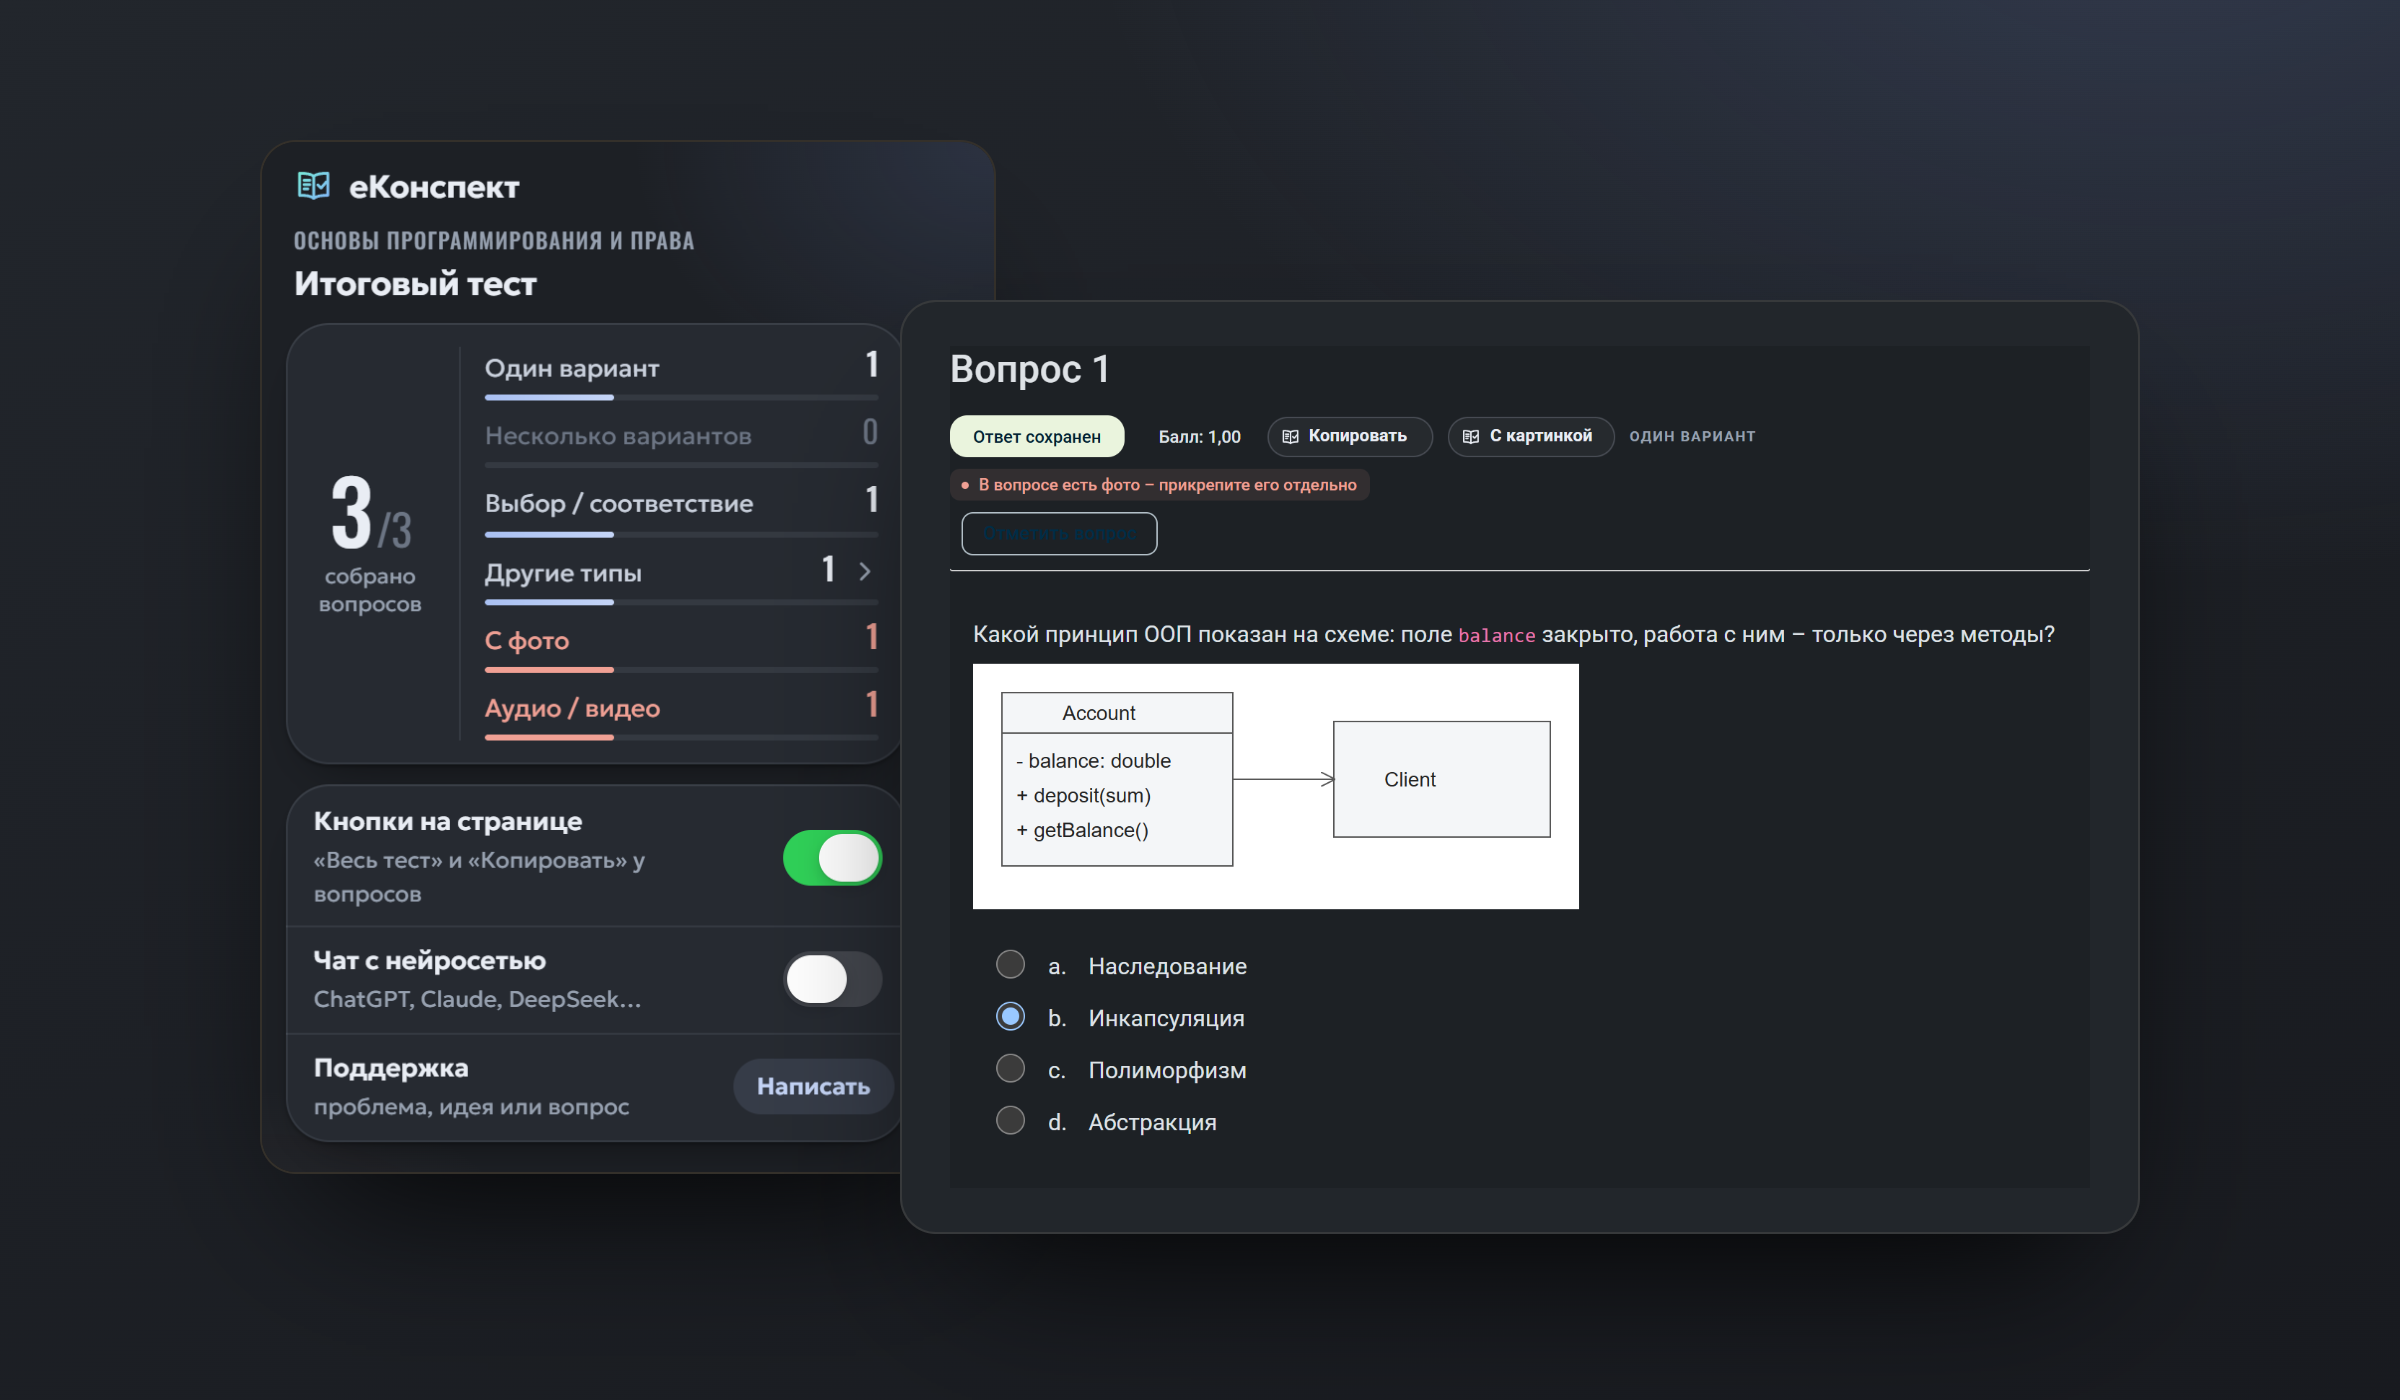
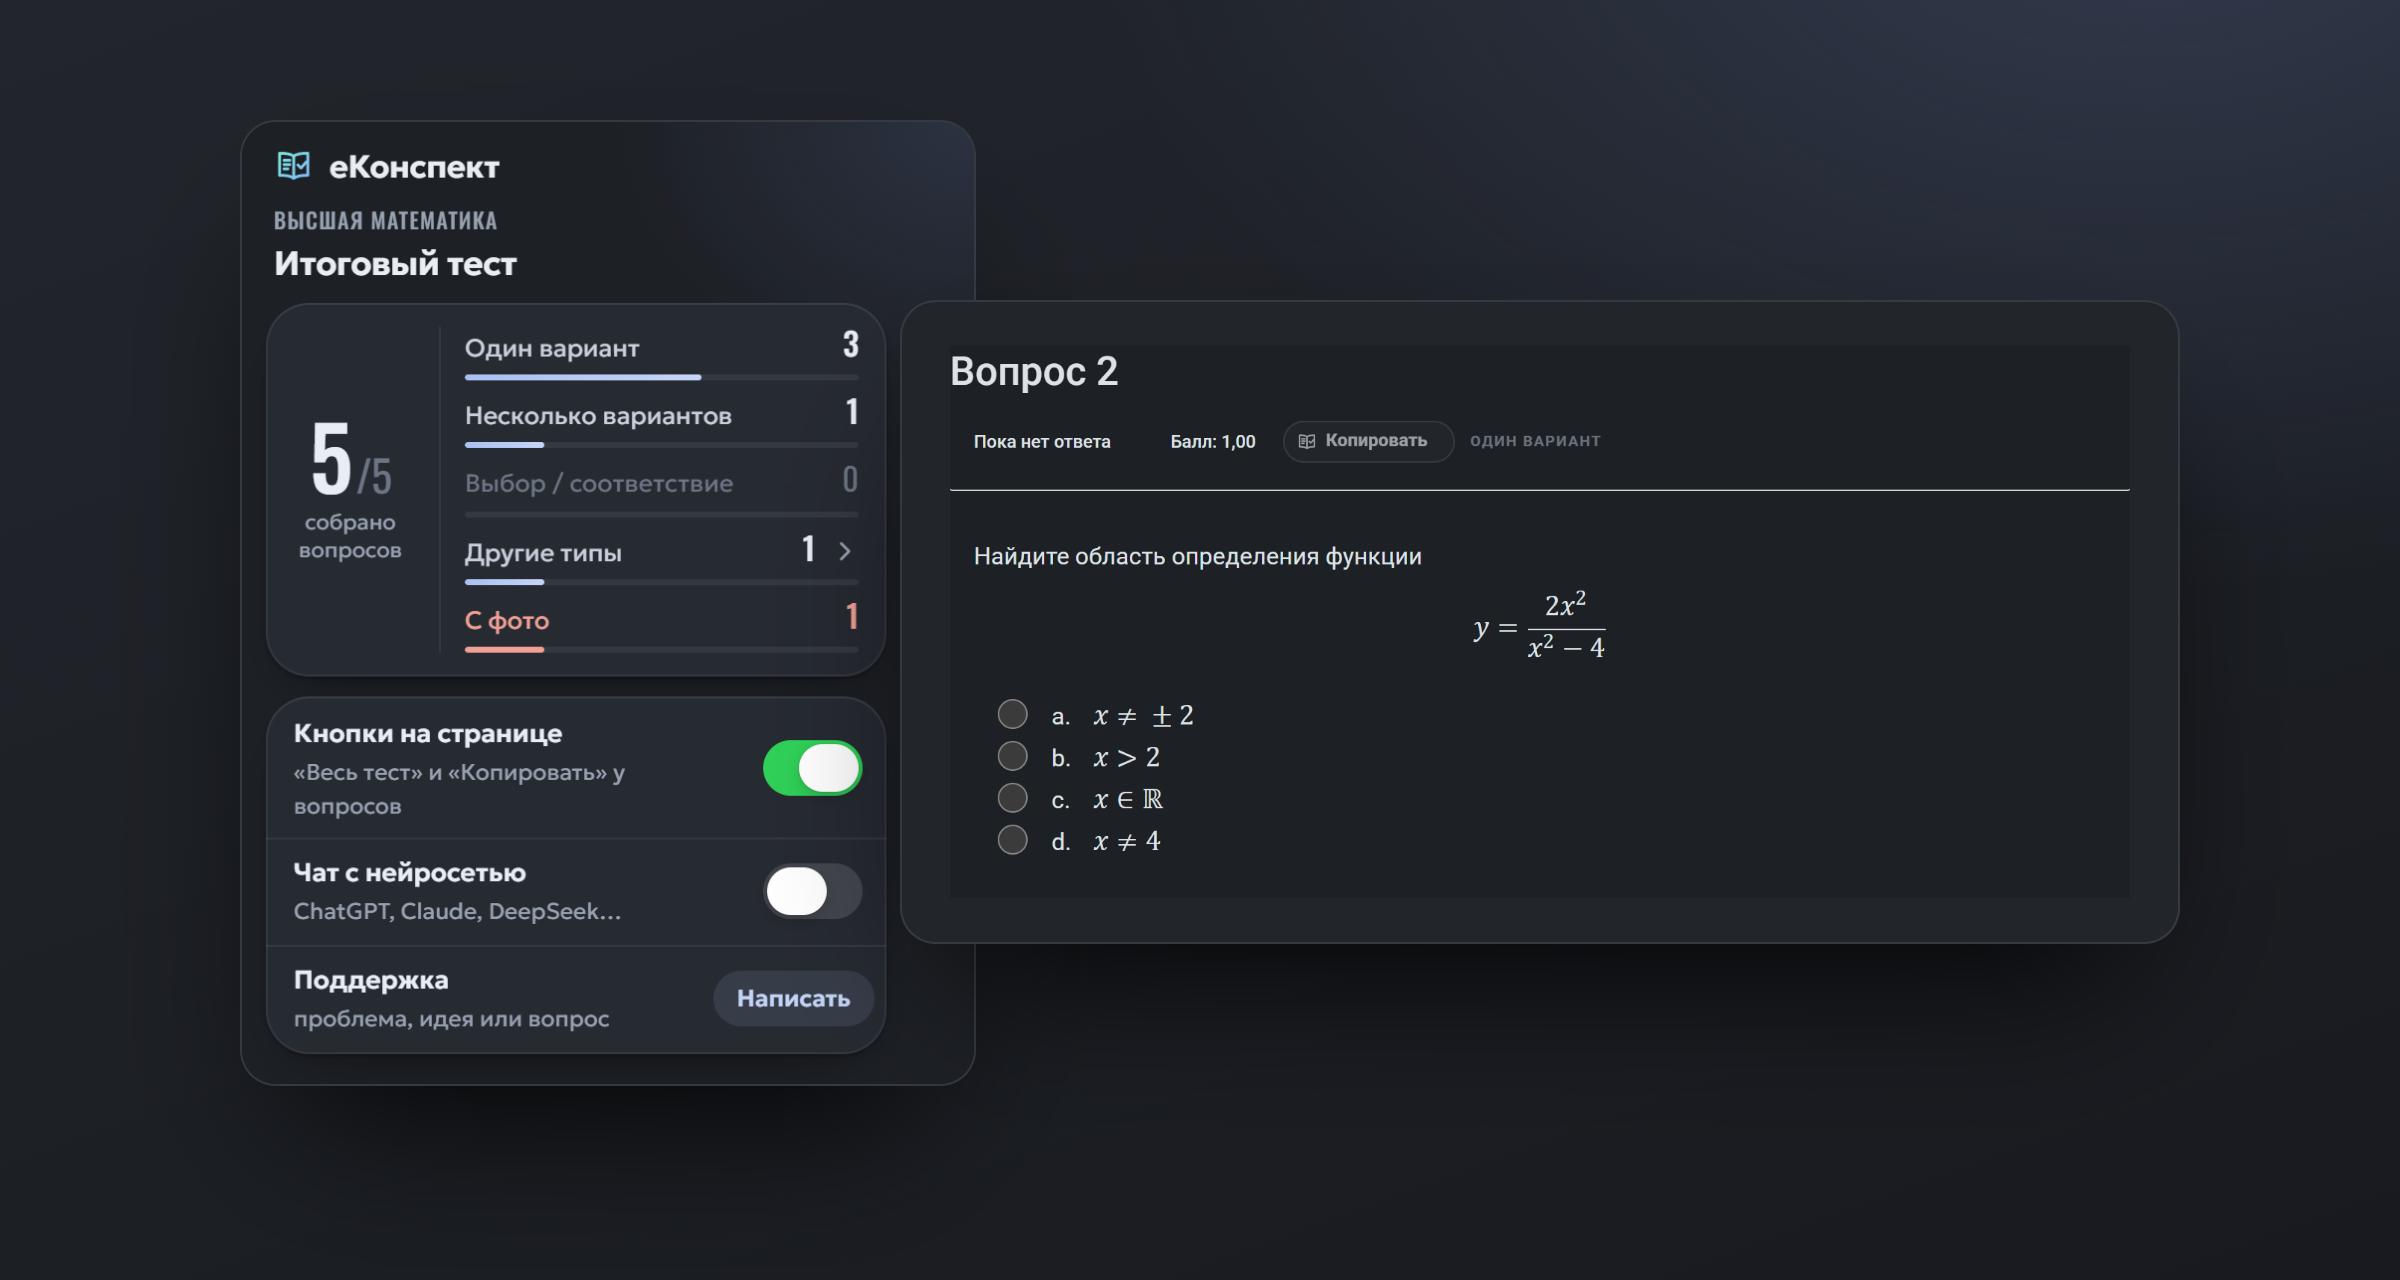
Витрина возможностей: кнопки на странице, формулы, результаты, «С картинкой», состав теста

diff --git a/README.md b/README.md
@@ -26,36 +26,67 @@
 
 <br>
 
-## Что вы получаете
+## Всё нужное — прямо на странице
 
-**Весь тест за одно нажатие.**
-Кнопки «Копировать весь тест», «Весь тест TXT» и «Весь тест ZIP» появляются прямо у названия теста. Листать страницы не нужно.
+Главные действия вынесены туда, где они нужны. У названия теста — «Весь тест TXT», «Весь тест ZIP» и «Копировать весь тест», рядом — сколько вопросов уже собрано. У каждого вопроса — «Копировать» и, если в нём есть рисунок, «С картинкой». Открывать окно расширения не нужно.
 
-**Вопросы сохраняются, даже когда сайт их скрыл.**
-Пока вы проходите тест, еКонспект сохраняет вопросы у вас в браузере. Если после попытки просмотр закрыт, файл всё равно будет.
-
-**Формулы, которые можно читать.**
-`y = 2x²/(x² − 4)`, `lim(x → 0) sin 3x/x`, матрицы, логика `¬(A ∨ B)`, химия `2H₂ + O₂ → 2H₂O`. Без кода разметки и пустых квадратов.
-
-**Схемы и рисунки на месте.**
-Архив ZIP содержит текст и снимки вопросов с изображениями. Кнопка «С картинкой» собирает вопрос, варианты и рисунок в одно изображение.
-
-**Результаты сразу видны.**
-В просмотре попытки — ✓ и ✗ у ваших ответов, баллы и правильные ответы, если их открыл преподаватель. Если не открыл, расширение по баллам подскажет, где искать верный.
-
-**Готово для работы с нейросетью.**
-Короткий и однозначный формат. Пометка «!» указывает, где для ответа нужен материал вне текста — рисунок, видео или лекция.
-
-**Лекции тоже.**
-«Вся лекция TXT / ZIP» — конспект с рисунками, собранный со всех страниц.
+<div align="center">
+<img src="images/header.png" alt="Кнопки «Весь тест TXT» и «Весь тест ZIP» у названия теста и кнопки у вопроса">
+</div>
 
 <br>
 
+## Формулы, которые можно читать
+
+Дроби, степени, пределы, множества, логика и химические уравнения превращаются в обычный текст — без кода разметки и пустых квадратов. Такой текст понятен человеку, документу и нейросети.
+
 <div align="center">
-<img src="images/file.png" alt="Вопрос на странице и тот же вопрос в файле">
+<img src="images/formulas.png" alt="Вопросы с формулами на сайте и тот же текст в файле">
 <br>
 <sub>Слева — вопрос на сайте. Справа — он же в файле.</sub>
 </div>
+
+<br>
+
+## Ваши результаты — рядом с ответами
+
+В просмотре попытки еКонспект отмечает ваши ответы: `✓` — верно, `✗` — неверно, `✓ пропущен` — верный вариант, который вы не выбрали. Итог, баллы и правильный ответ, если его открыл преподаватель, — сразу под вопросом. Если правильные ответы скрыты, расширение по баллам подскажет, где искать верный.
+
+<div align="center">
+<img src="images/results.png" alt="Просмотр результатов и тот же вопрос в файле с отметками">
+</div>
+
+<br>
+
+## Схемы и рисунки — одной картинкой
+
+Кнопка «С картинкой» собирает вопрос, варианты и рисунок в одно изображение. Его можно вставить в чат с нейросетью, в документ или конспект. Архив «Весь тест ZIP» содержит текст и снимки всех вопросов с изображениями.
+
+<div align="center">
+<img src="images/image.png" alt="Вопрос со схемой и результат кнопки «С картинкой»">
+</div>
+
+<br>
+
+## Состав теста — с первого взгляда
+
+Окно расширения показывает, сколько вопросов собрано и каких они типов. Отдельно отмечены вопросы с фото, аудио и видео — то, что нельзя передать текстом и стоит посмотреть на странице.
+
+<div align="center">
+<img src="images/popup.png" alt="Окно расширения: сводка по типам вопросов">
+</div>
+
+<br>
+
+## И ещё
+
+**Вопросы сохраняются, даже когда сайт их скрыл.** Пока вы проходите тест, еКонспект сохраняет вопросы у вас в браузере. Если после попытки просмотр закрыт, файл всё равно будет.
+
+**Лекции тоже.** «Вся лекция TXT / ZIP» — конспект с рисунками, собранный со всех страниц лекции.
+
+**Готово для нейросети.** Короткий и однозначный формат с подсказкой, как отвечать. Пометка «!» указывает, где для ответа нужен материал вне текста: рисунок, видео или лекция.
+
+**Все распространённые типы вопросов.** Один и несколько ответов, соответствие, пропуски, выбор слов, короткий и числовой ответ, эссе, упорядочивание, задания на изображении.
 
 <br>
 
@@ -98,8 +129,6 @@
 
 Каждая версия проходит более 300 автоматических проверок на разметке всех поддерживаемых типов вопросов, браузерные тесты и проверку пакета перед отправкой в магазин. Разбор теста из 120 вопросов в файл занимает около десятой доли секунды.
 
-Поддерживаются распространённые типы вопросов Moodle: один и несколько ответов, соответствие, пропуски, выбор слов, короткий и числовой ответ, эссе, упорядочивание и задания на изображении.
-
 <br>
 
 ## Установка
@@ -131,10 +160,11 @@
 **eKonspekt** is a browser extension that turns a Moodle quiz or lesson into one clean, structured text file — in a single click.
 
 - Collects every page of a quiz automatically, in the background.
-- Keeps questions available even after the review is closed.
-- Renders formulas and chemistry as readable text.
-- Exports images and diagrams as a ZIP alongside the text.
+- One-click buttons right on the page: next to the quiz title and next to every question.
+- Renders formulas, sets, logic and chemistry as readable text.
 - Shows your ✓ and ✗ next to answers in the attempt review.
+- Copies a question with its diagram as a single image; exports images as a ZIP.
+- Keeps questions available even after the review is closed.
 - No servers, no analytics, no ads. Everything stays in your browser.
 
 Available for [Firefox](https://addons.mozilla.org/ru/firefox/addon/ekonspekt/). The Chrome Web Store release is under review. The interface is in Russian.
